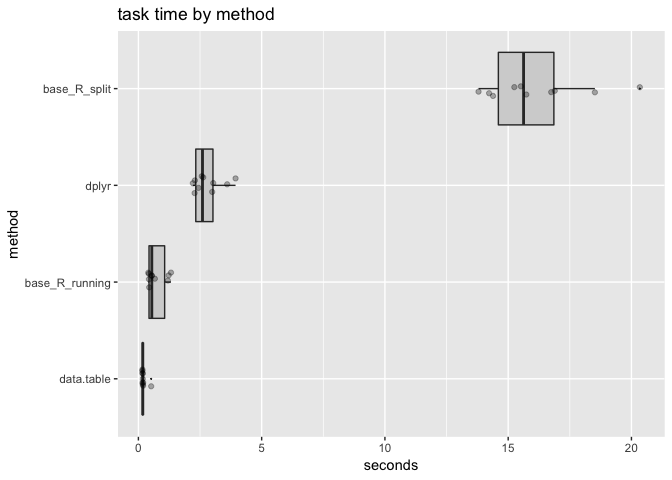
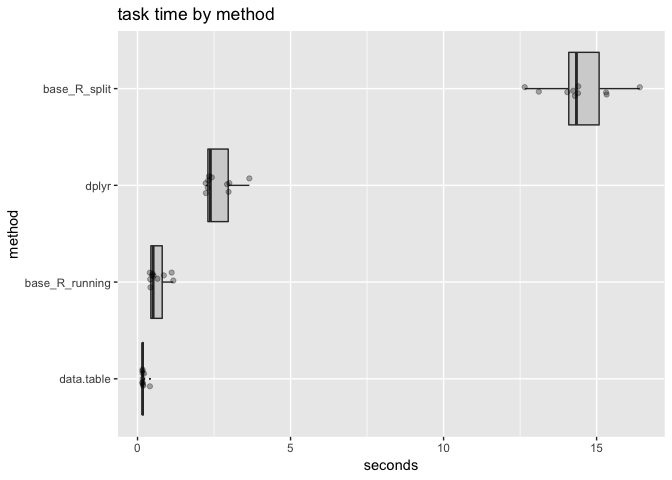
re-run

diff --git a/extras/grouped_ops/grouped_sum_timing.md b/extras/grouped_ops/grouped_sum_timing.md
@@ -1,6 +1,8 @@
 grouped\_sum\_timing.Rmd
 ================
 
+Example using [`FastBaseR`](https://github.com/WinVector/FastBaseR).
+
 ``` r
 library("dplyr")
 ```
@@ -199,15 +201,15 @@ print(timing)
 
     ## Unit: milliseconds
     ##            expr        min         lq       mean     median         uq
-    ##    base_R_split 13796.8230 14385.9755 16139.8230 15624.7865 16889.6405
-    ##  base_R_running   401.7524   428.5287   719.4328   543.6349  1196.8926
-    ##      data.table   161.5124   163.9188   209.3705   178.4081   191.0271
-    ##           dplyr  2208.7771  2291.1388  2798.7648  2599.8776  3034.5537
+    ##    base_R_split 12650.9977 14041.3320 14417.0595 14341.4191 15309.4664
+    ##  base_R_running   400.1429   422.6459   652.3276   510.1481   859.6739
+    ##      data.table   158.5339   163.0760   195.0300   164.5713   184.1905
+    ##           dplyr  2227.6616  2296.3252  2638.2539  2380.4040  2974.8971
     ##         max neval cld
-    ##  20339.9346    10   c
-    ##   1322.4961    10 a  
-    ##    518.1378    10 a  
-    ##   3941.1327    10  b
+    ##  16411.9355    10   c
+    ##   1169.7952    10 a  
+    ##    404.3589    10 a  
+    ##   3653.6679    10  b
 
 ``` r
 tm <- as.data.frame(timing)
